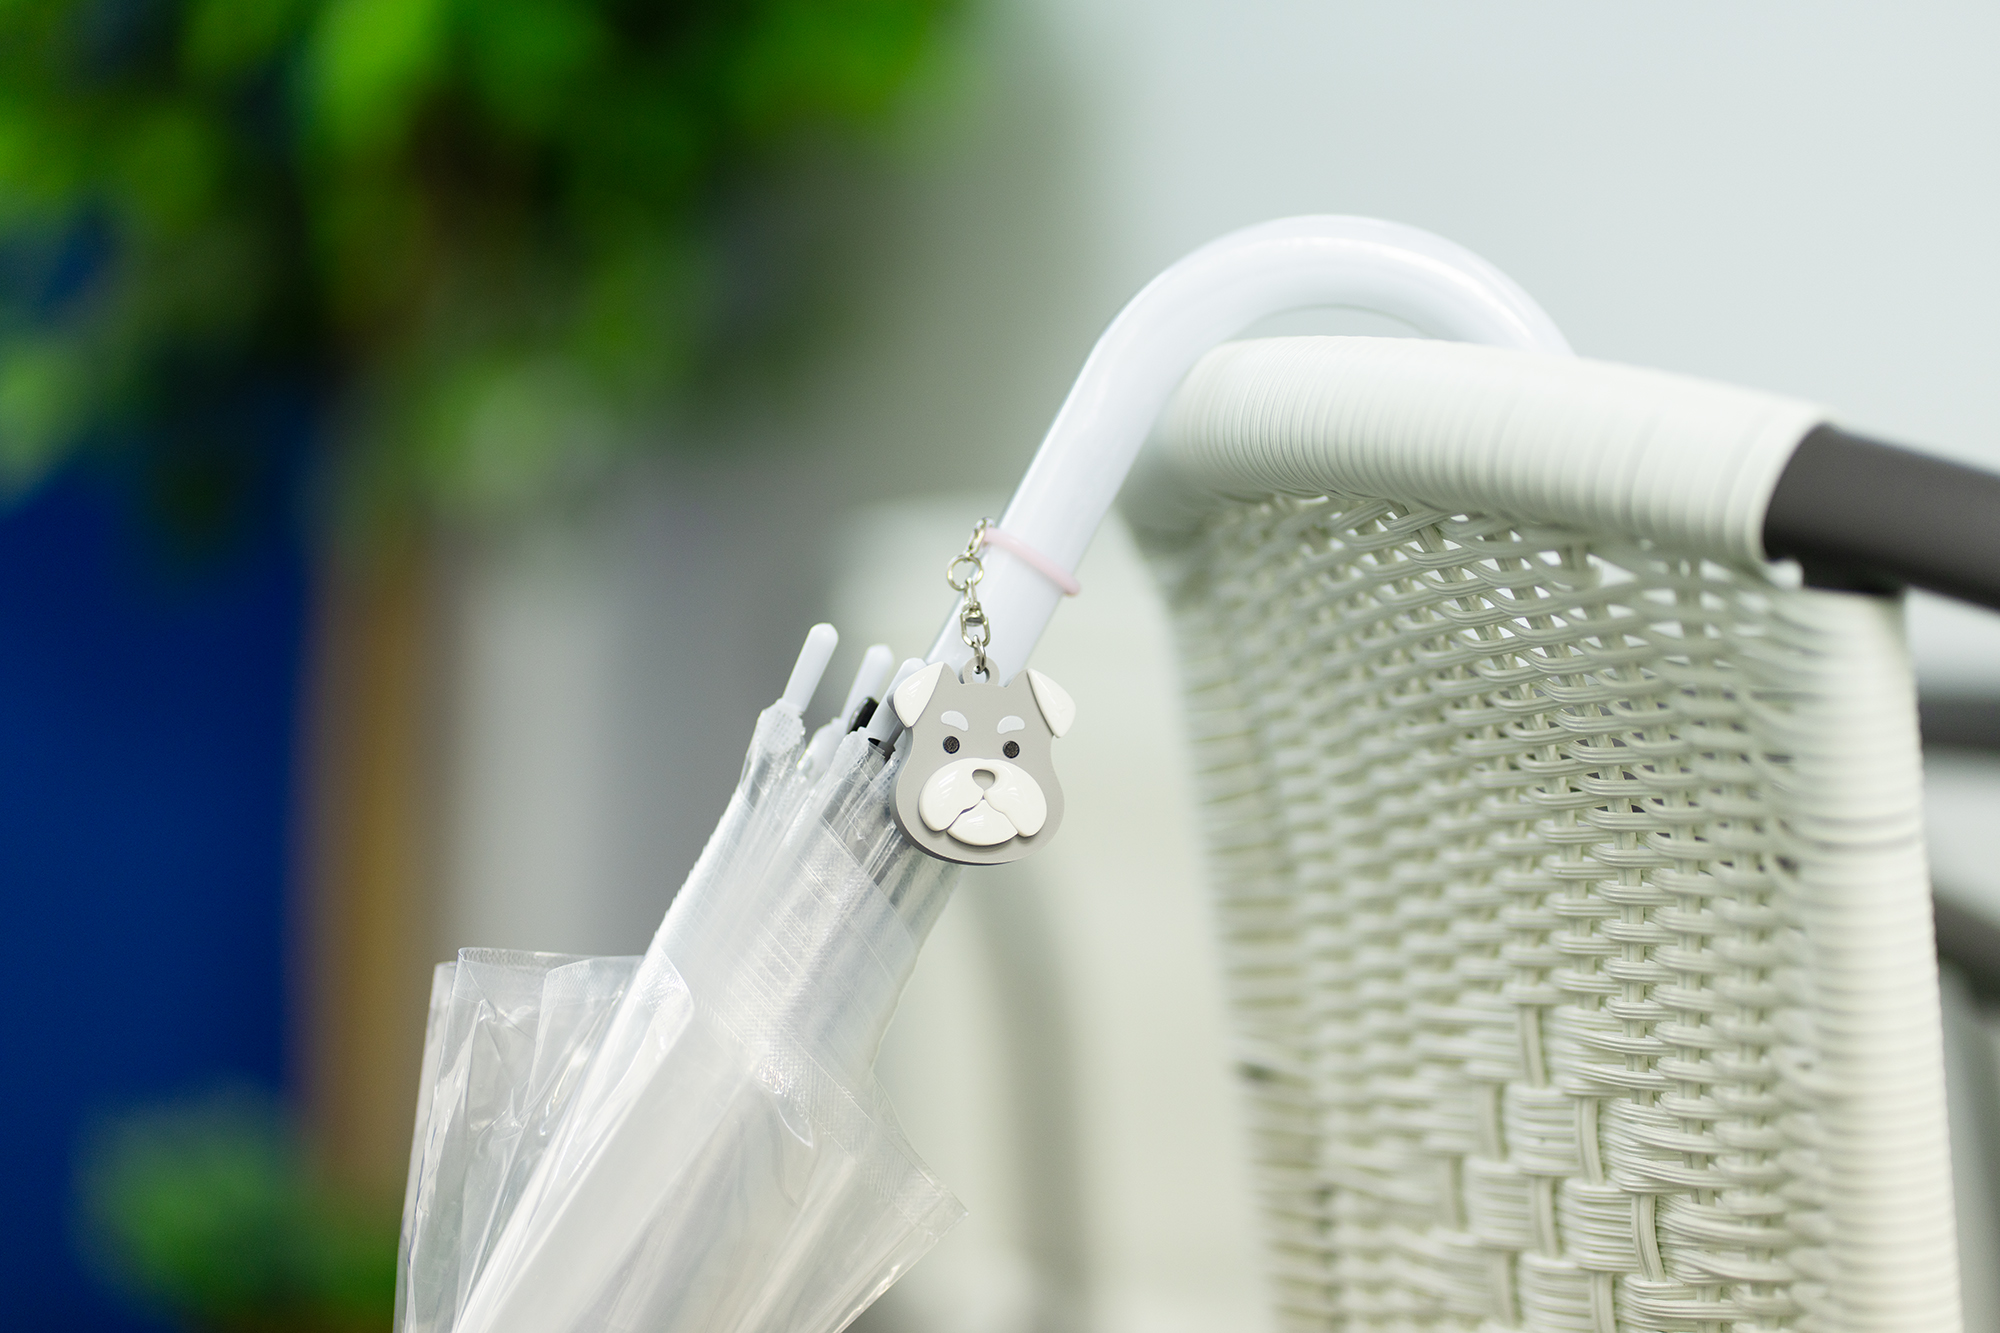
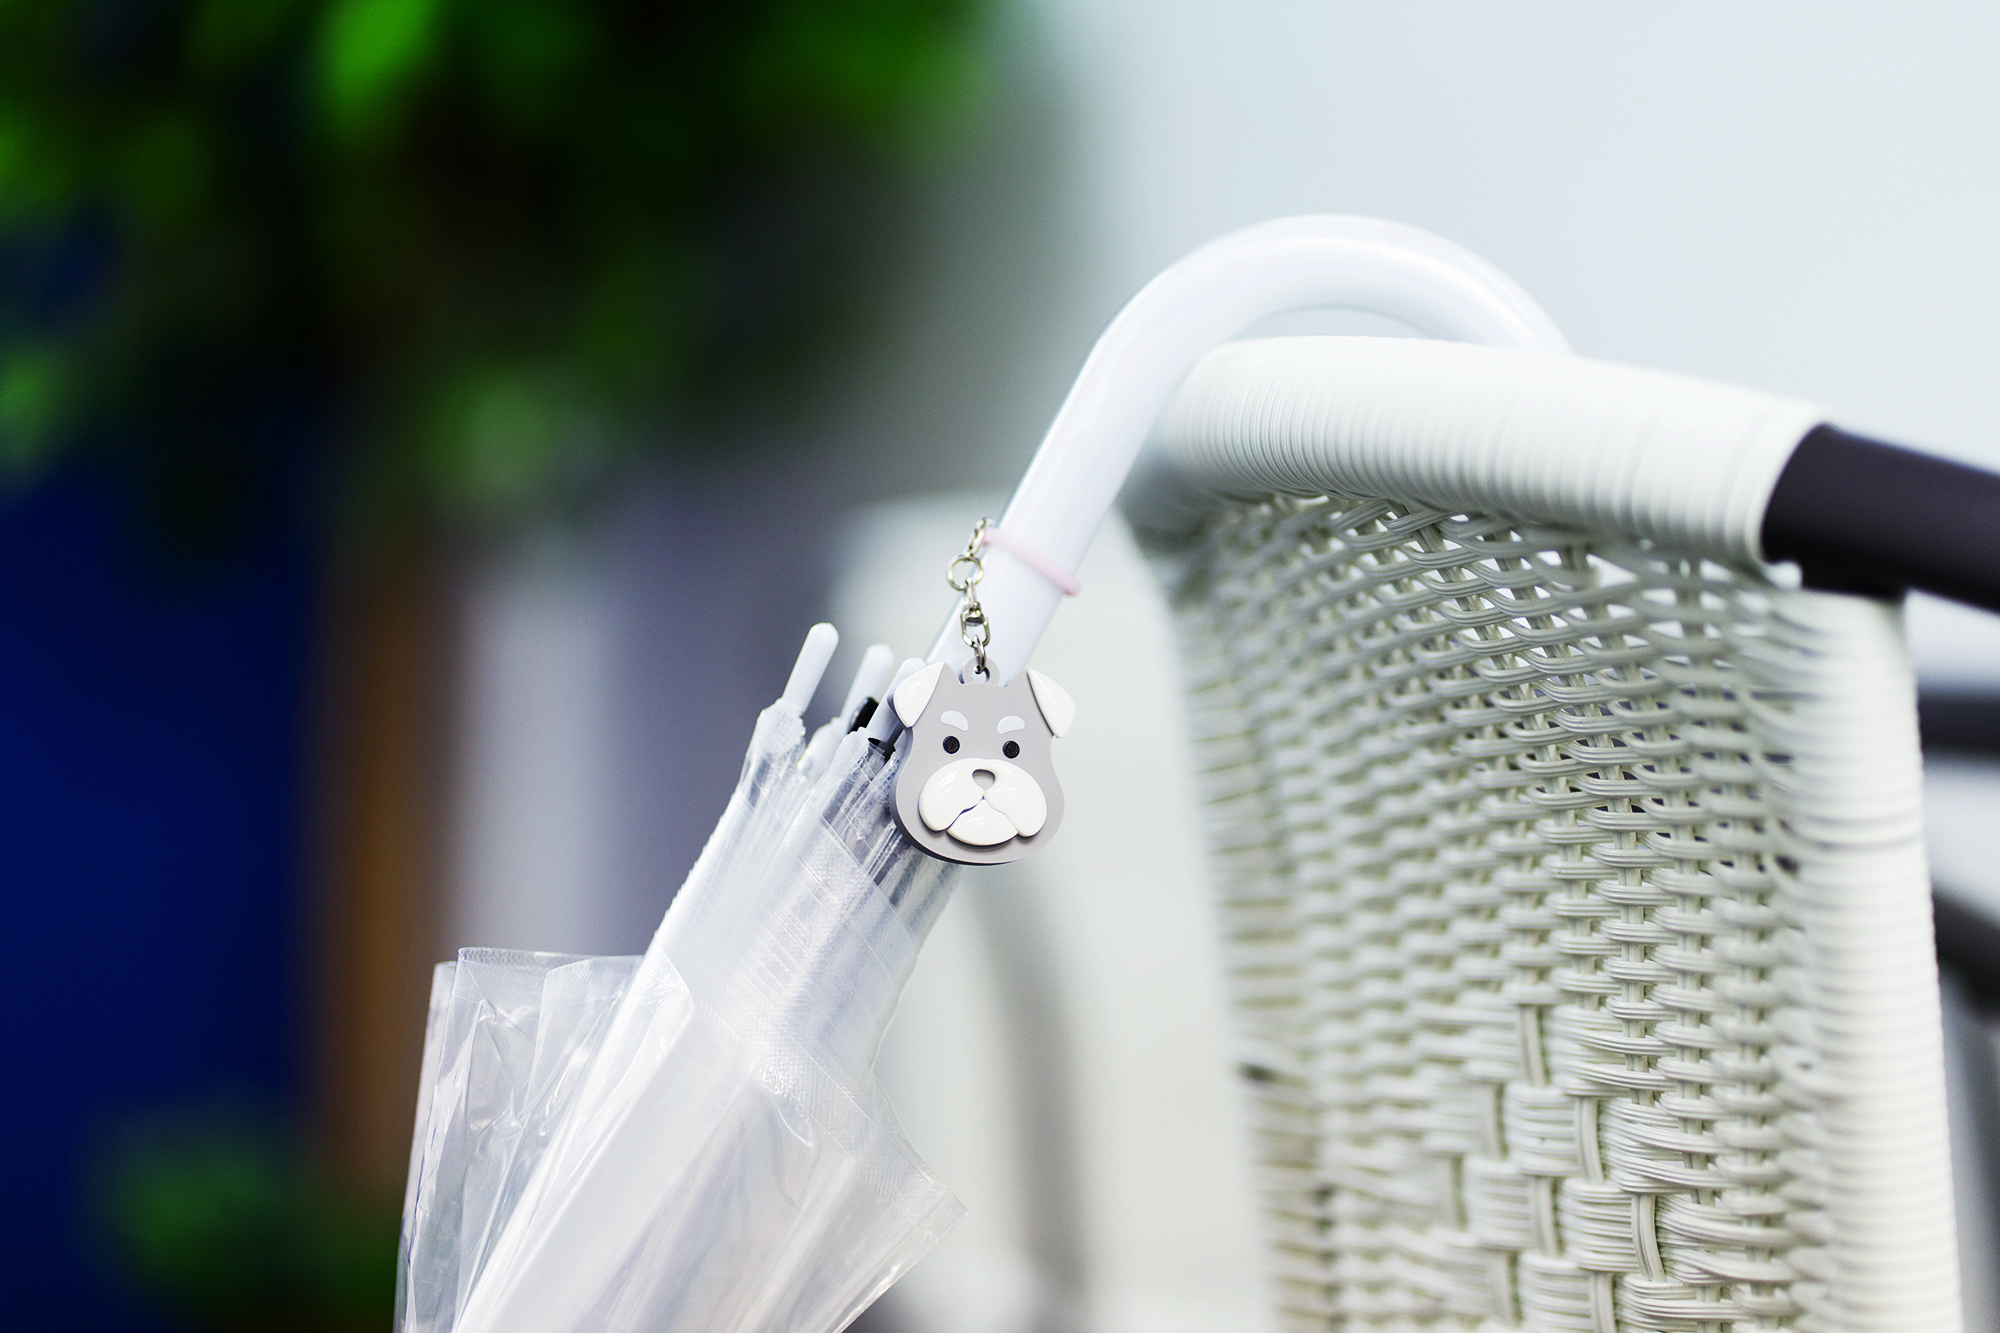
feat(cases): 新しい LP_CASE1-3 画像に差し替え + レイアウトをデザイン準拠に
- public/images/LP_CASE{1.png,2.jpg,3.jpg} を最新版に更新
- 旧 LP_A.png / LP_B.png を撤去 (未使用)
- Cases セクションをデザイン準拠の青カード + 角丸画像 + 黄ラベルに刷新
  - 各 case がブルーの rounded-[2rem] カード
  - 左に 1.6:1 比の画像 (rounded-[1.4rem])、右に黄色の CASE ラベルと白文字
  - 旧の bg-stripes 背景は廃止し、セクション自体は白に

diff --git a/components/sections/Cases.tsx b/components/sections/Cases.tsx
@@ -3,55 +3,63 @@ import Image from 'next/image'
 const CASES = [
   {
     no: '01',
-    title: 'おさんぽに',
-    body: '毎日のお散歩にペットと一緒に連れ出そう',
-    image: '/images/LP_A.png',
+    body: ['毎日のお散歩に', 'ペットと一緒に', '連れ出そう'],
+    image: '/images/LP_CASE1.png',
   },
   {
     no: '02',
-    title: 'ばんけんに',
-    body: '傘の柄の部分に取り付ければ番犬に早変わり',
-    image: '/images/LP_B.png',
+    body: ['傘の柄の部分に', '取り付ければ', '目印に早変わり'],
+    image: '/images/LP_CASE2.jpg',
   },
   {
     no: '03',
-    title: 'おでかけに',
-    body: '学校やお出かけもうちのこがいれば毎日 HAPPY',
-    image: '/images/LP_CASE2.jpg',
+    body: ['学校やお出かけも', 'うちのこがいれば', '毎日 HAPPY'],
+    image: '/images/LP_CASE3.jpg',
   },
 ] as const
 
 export function Cases() {
   return (
-    <section className="bg-stripes py-20 text-white md:py-28">
+    <section className="bg-white py-20 md:py-28">
       <div className="mx-auto max-w-3xl px-6">
-        <p className="mb-2 text-center text-[10px] tracking-[0.4em] opacity-80">
+        <p className="mb-2 text-center text-[10px] tracking-[0.4em] text-ink/60">
           &quot;Uchinoko&quot; Life
         </p>
         <h2 className="mb-12 text-center font-bold text-2xl md:text-3xl">
           うちのこチャームがいる毎日
         </h2>
 
-        <div className="space-y-5">
+        <div className="space-y-6">
           {CASES.map((c) => (
             <article
               key={c.no}
-              className="overflow-hidden rounded-3xl bg-white text-ink shadow-xl"
+              className="overflow-hidden rounded-[2rem] bg-brand-blue p-3 text-white shadow-lg md:p-4"
             >
-              <div className="grid grid-cols-[140px_1fr] items-stretch md:grid-cols-[200px_1fr]">
-                <div className="relative h-full min-h-[120px]">
+              <div className="grid grid-cols-[1.6fr_1fr] items-center gap-3 md:gap-6">
+                {/* 画像 — 角丸の写真 */}
+                <div className="relative aspect-[5/4] w-full overflow-hidden rounded-[1.4rem]">
                   <Image
                     src={c.image}
-                    alt={c.title}
+                    alt={`CASE ${c.no}`}
                     fill
                     className="object-cover"
-                    sizes="(min-width: 768px) 200px, 140px"
+                    sizes="(min-width: 768px) 360px, 60vw"
                   />
                 </div>
-                <div className="flex flex-col justify-center gap-2 p-5 md:p-7">
-                  <p className="text-[10px] tracking-[0.4em] text-brand-blue">CASE {c.no}</p>
-                  <h3 className="font-bold text-base md:text-lg">{c.title}</h3>
-                  <p className="text-neutral-600 text-sm leading-relaxed">{c.body}</p>
+
+                {/* テキスト */}
+                <div className="flex flex-col gap-3 pr-3 md:pr-6">
+                  <p className="font-bold text-brand-yellow text-xl tracking-wider md:text-2xl">
+                    CASE {c.no}
+                  </p>
+                  <p className="text-sm leading-relaxed md:text-base">
+                    {c.body.map((line, i) => (
+                      // biome-ignore lint/suspicious/noArrayIndexKey: static line break
+                      <span key={i} className="block">
+                        {line}
+                      </span>
+                    ))}
+                  </p>
                 </div>
               </div>
             </article>
